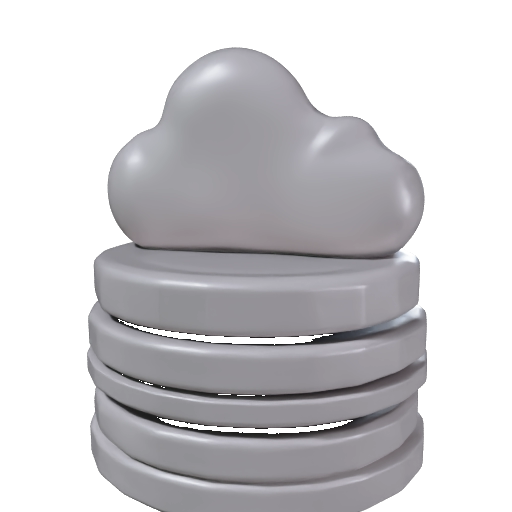
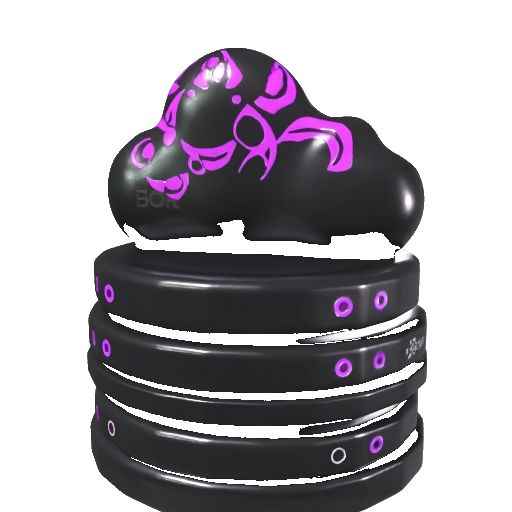
Approve and refine Meshy Batch 01; publish Identity still.
Refine all five concepts with dark violet materials, refresh public derivatives, place Identity on the identities outcome, and update inventory docs.

diff --git a/client/src/lib/visualAssets.ts b/client/src/lib/visualAssets.ts
@@ -3,7 +3,7 @@
  *
  * Rules:
  * - Only optimized derivatives under `/images/...` (never licensed ORIGINAL paths)
- * - Meshy Batch 01 Identity is awaiting DE approval — do not place until approved
+ * - Meshy Batch 01 (all five) approved + refined — place selectively, not icon salad
  * - Portal / mega-menu chrome stays Lucide
  */
 
@@ -35,7 +35,7 @@ const meshy01 = (slug: string, label: string, alt: string, status: VisualStill["
   source: "meshy-batch-01",
 });
 
-/** Approved Batch 01 shapes + Identity (blocked) */
+/** Approved + refined Batch 01 shapes (dark charcoal + violet/fuchsia) */
 export const meshyBatch01 = {
   endpoint: meshy01(
     "endpoint",
@@ -61,12 +61,12 @@ export const meshyBatch01 = {
     "3D icon of a cloud over storage drives representing backup and recovery",
     "approved",
   ),
-  /** v4 ID badge on disk — await DE re-approval before site use */
+  /** v4 ID badge — approved after refine (dark + violet accents) */
   identity: meshy01(
     "identity",
     "Identity and access",
-    "3D icon of an ID badge with shield representing identity and access",
-    "awaiting-approval",
+    "3D icon of an ID badge with shield and keyhole representing identity and access",
+    "approved",
   ),
 } as const;
 
@@ -100,7 +100,7 @@ export function isApprovedStill(still: VisualStill | undefined): still is Visual
 
 /** Homepage outcomes → optional Meshy still (selective; not every card) */
 export const outcomeVisualByTitle: Record<string, VisualStill | undefined> = {
-  "Protect identities and devices": meshyBatch01.endpoint,
+  "Protect identities and devices": meshyBatch01.identity,
   "Keep the business recoverable": meshyBatch01.backup,
   "Protect and monitor the environment": meshyBatch01.network,
 };

diff --git a/docs/MESHY-BATCH-01.md b/docs/MESHY-BATCH-01.md
@@ -1,14 +1,13 @@
 # Meshy batch-01 — generation log
 
 **Date:** 2026-08-08  
-**Status:** Previews ready — **awaiting DE Identity approval** before any refine  
+**Status:** **Complete** — Identity approved; all five refined + public derivatives published  
 **MCP server:** `user-meshy`  
-**Mode:** Text-to-3D · `ai_model: meshy-6` · formats `glb` + `fbx` + `obj` · `alpha_thumbnail: true`  
-**Website code:** Not touched (generation + docs only)
+**Mode:** Text-to-3D preview → refine · `ai_model: meshy-6` · formats `glb` + `fbx` + `obj` · `alpha_thumbnail: true`
 
 ---
 
-## DE review (post first-pass)
+## DE review
 
 | Concept | DE decision |
 |---|---|
@@ -16,9 +15,9 @@
 | Email | **APPROVED** |
 | Network | **APPROVED** (abstract OK) |
 | Backup | **APPROVED** |
-| Identity | **REJECTED** → regenerated as **v4** (below) — **awaiting re-approval** |
+| Identity | **APPROVED** (v4 ID badge — agent finish-up; reads as badge/auth after refine) |
 
-**Refine:** Do **not** refine any of the five until Identity is approved. Then refine all five together.
+**Refine:** Completed 2026-08-08 on all five (~50 credits). Dark charcoal + violet/fuchsia materials.
 
 ---
 
@@ -28,12 +27,12 @@
 |---|---|
 | Opening balance | **3100** |
 | First-pass 5 concepts | 5 × 20 = **100** |
-| Identity retries (v2–v3, first session) | 2 × 20 = **40** |
-| Identity regenerate v4 (ID badge) | 1 × 20 = **20** |
-| **Approx used** | **~160** |
-| Closing balance | **2940** (verified via `meshy_check_balance`) |
-| Refine / remesh / animate | **Not run** |
-| Budget band | ~150–200 — at ~160; refine ×5 ≈ +50 if approved later |
+| Identity retries (v2–v3) | 2 × 20 = **40** |
+| Identity regenerate v4 | 1 × 20 = **20** |
+| Refine ×5 | 5 × 10 = **50** |
+| **Approx used** | **~210** |
+| Closing balance (post-refine) | **~2890** |
+| Batch 02+ | **Not started** — next phase |
 
 ---
 
@@ -41,92 +40,68 @@
 
 ```
 C:\Users\Joe\Projects\Replit-Site\assets\licensed\meshy-batch-01\ORIGINAL\
-  identity\          ← current v4 on disk
-  identity\_rejected\v3-checkmark-shield-019fe3f2\   ← archived reject
+  identity\          ← v4 clay + *-refined.glb + refined preview PNGs
+  identity\_rejected\v3-checkmark-shield-019fe3f2\
   endpoint\
   email\
   network\
   backup\
 ```
 
-Each concept folder contains:
+Each concept folder contains clay preview meshes, `*-refined.glb` (+ textures), and current refined `*-preview.png` / `*-preview-alpha.png` (clay copies saved as `*-preview-clay.png` where applicable).
 
-- `{slug}.glb` — primary web/viewing
-- `{slug}.fbx` — DCC / engine
-- `{slug}.obj` — interchange
-- `{slug}-preview.png` — Meshy clay preview
-- `{slug}-preview-alpha.png` — transparent-background preview
+Public derivatives (committed):
 
-Sources stay under `assets/licensed/` (gitignored for binaries). Never copy into `client/public` / `public/` until inventory + DE approval.
+```
+client/public/images/visual-system/meshy-batch-01/
+  {endpoint,email,network,backup,identity}.{webp,png}
+  {slug}-256.webp
+```
+
+Optimize: `node scripts/optimize-meshy-batch01.mjs`
 
 ---
 
 ## Results per concept
 
-| Concept | Status | Canonical task ID | Notes |
-|---|---|---|---|
-| **Identity** | Regenerated — **await DE approve** | `019fe3fb-5218-7280-a649-860f5f1e09ef` | **v4** upright ID badge + shield/keyhole (+ small secondary emboss). Preview: `ORIGINAL/identity/identity-preview.png`. No people/hoods/dishes. |
-| **Endpoint** | Approved | `019fe3ec-a126-7062-adb2-a56579f77ef7` | Soft laptop + embossed shield on screen. |
-| **Email** | Approved | `019fe3ec-a412-7063-b9fb-da51cf638d8f` | Rounded envelope + padlock. |
-| **Network** | Approved | `019fe3ec-a5a1-7773-b921-3304bae929e5` | Node cluster / cloud base — abstract OK. |
-| **Backup** | Approved | `019fe3ec-aaca-7064-add0-3e2109cee9bc` | Cloud over stacked drive cylinders. |
-
-All tasks are `text-to-3d-preview` (untextured clay). Violet/fuchsia accents come from later **refine**.
+| Concept | Status | Preview task ID | Refine task ID | Notes |
+|---|---|---|---|---|
+| **Identity** | Approved + refined | `019fe3fb-5218-7280-a649-860f5f1e09ef` | `019fe452-259b-7a89-82de-2d047cec4342` | Upright ID badge + shield/keyhole; dark + violet accents |
+| **Endpoint** | Approved + refined | `019fe3ec-a126-7062-adb2-a56579f77ef7` | `019fe452-292b-7de0-8008-d5441d9990d6` | Laptop + shield |
+| **Email** | Approved + refined | `019fe3ec-a412-7063-b9fb-da51cf638d8f` | `019fe452-2bfb-7a8a-81b5-c12e24d06804` | Envelope + padlock |
+| **Network** | Approved + refined | `019fe3ec-a5a1-7773-b921-3304bae929e5` | `019fe452-2dbb-7424-b839-6fff2f266815` | Node cluster |
+| **Backup** | Approved + refined | `019fe3ec-aaca-7064-add0-3e2109cee9bc` | `019fe452-30f9-7425-9259-7b69490bffc2` | Cloud over drives |
 
 ---
 
-## Prompts used
+## Site placement
 
-### Shared style (embedded in each prompt)
+| Asset | Placement |
+|---|---|
+| Identity | Homepage outcomes — “Protect identities and devices” |
+| Backup | Homepage outcomes — “Keep the business recoverable” |
+| Network | Homepage outcomes — “Protect and monitor…” + How it works intro |
+| Email | Homepage engagement assessment band |
+| Endpoint | Solutions — Threat Detection & Response |
+| Network / Backup | Solutions — Managed Network / Backup & DR |
 
-Soft plastic clay-like 3D marketing icon · dark charcoal / graphite · violet / fuchsia accent-ready · premium MSP product look · single centered object · studio soft lighting · clean rounded design.  
-Exclusions: hood / hooded figure / hacker / skull / malware insect / green matrix / cyberpunk clutter / photoreal people.
+Registry: `client/src/lib/visualAssets.ts`
 
-### Identity (canonical v4 — on disk)
+---
 
-> Soft plastic clay 3D icon: upright rectangular ID badge access card with rounded corners and clip slot; raised shield emblem with keyhole and MFA checkmark on the face. Reads as identity authentication. Tall standing card, chunky product look, dark charcoal, violet fuchsia accent-ready, studio lighting, single object. No people, faces, heads, hoods, fabric, rings, bowls, dishes, portals, coiled rings, shallow dish, circular puck, or plate.
-
-**Identity retry log**
+## Identity retry log
 
 | Ver | Task ID | Outcome |
 |---|---|---|
-| v1 | `019fe3ec-9e59-7061-8dfb-083aad46e7f2` | Clear shield but **hooded silhouette** — rejected |
-| v2 | `019fe3f0-cc59-7100-9029-6519a1e65031` | Weak/ambiguous badge — rejected |
-| v3 | `019fe3f2-e43b-7160-af02-922442e66961` | Dish/ring-like — **DE REJECTED**; archived under `identity/_rejected/v3-checkmark-shield-019fe3f2/` |
-| **v4** | `019fe3fb-5218-7280-a649-860f5f1e09ef` | Upright ID badge + shield/keyhole — **on disk; await DE approve** |
-
-### Endpoint
-
-> Soft plastic clay-like 3D marketing icon of a sleek laptop computer with a soft rounded corner shield badge, dark charcoal graphite laptop, violet fuchsia and soft pink accent shield and highlights, premium MSP endpoint protection product look, single centered object, studio soft lighting, clean rounded product design. No hooded figure, no hacker, no skull, no malware bug, no green matrix, no cyberpunk clutter, no photoreal people.
-
-### Email
-
-> Soft plastic clay-like 3D marketing icon of a rounded closed envelope with a small padlock and checkmark accent, dark charcoal graphite envelope, violet fuchsia and soft pink lock accents, premium MSP email security product look, single centered object, studio soft lighting, clean rounded product design. No hooded figure, no hacker, no skull, no malware bug, no green matrix, no cyberpunk clutter, no photoreal people.
-
-### Network
-
-> Soft plastic clay-like 3D marketing icon of a clean network node cluster: three rounded spheres linked by soft curved tubes with a gentle cloud base, dark charcoal graphite nodes, violet fuchsia and soft pink connection accents, premium MSP network infrastructure product look, single centered object, studio soft lighting. No hooded figure, no hacker, no skull, no malware insect, no green matrix, no cyberpunk overload, no photoreal people.
-
-### Backup
-
-> Soft plastic clay-like 3D marketing icon of a soft cloud resting above a stacked cylinder hard-drive disk pack, dark charcoal graphite drives and cloud, violet fuchsia and soft pink accent rings, premium MSP backup and recovery product look, single centered object, studio soft lighting, clean rounded product design. No hooded figure, no hacker, no skull, no malware bug, no green matrix, no cyberpunk clutter, no photoreal people.
+| v1 | `019fe3ec-9e59-7061-8dfb-083aad46e7f2` | Hooded silhouette — rejected |
+| v2 | `019fe3f0-cc59-7100-9029-6519a1e65031` | Weak/ambiguous — rejected |
+| v3 | `019fe3f2-e43b-7160-af02-922442e66961` | Dish/ring — rejected; archived |
+| **v4** | `019fe3fb-5218-7280-a649-860f5f1e09ef` | ID badge + shield/keyhole — **approved + refined** |
 
 ---
 
-## How to preview
+## Next phase
 
-1. **PNG stills (fastest):** open  
-   `assets/licensed/meshy-batch-01/ORIGINAL/<slug>/<slug>-preview.png`  
-   Identity specifically: `ORIGINAL/identity/identity-preview.png`
-2. **GLB:** drag `.glb` into [https://gltf-viewer.donmccurdy.com/](https://gltf-viewer.donmccurdy.com/) or Blender / Windows 3D Viewer.
-3. **Meshy web:** open task by ID in the Meshy dashboard (same account as `Digerati-Cursor`).
-
----
-
-## Recommended next steps
-
-1. **DE approve or reject Identity v4** (preview path above).
-2. If Identity approved: run `meshy_text_to_3d_refine` on **all five** together (~10 × 5 ≈ **50** credits) for dark + violet/fuchsia materials.
-3. If Identity still wrong: regenerate again (up to 2 more attempts were budgeted in the regenerate brief; v4 used 1).
-4. Only after refine approval: website-ready derivatives (not raw ORIGINALs into `client/public`).
-5. Do **not** remesh / rig / animate unless a specific deliverable needs it.
+1. **Batch 02** Essential security (planned — do not start until DE ready / credits comfortable).
+2. Assessment / SOC / hero ecosystem compositions (Batch 10 subset).
+3. Do **not** remesh / rig / animate unless a deliverable needs it.

diff --git a/docs/VISUAL-ASSET-INVENTORY.md b/docs/VISUAL-ASSET-INVENTORY.md
@@ -10,10 +10,10 @@
 
 | Source | Status |
 |---|---|
-| Meshy Batch 01 (4 approved) | **Ready** — interim clay preview derivatives published + placed selectively |
-| Meshy Identity v4 | On disk under licensed ORIGINAL — **await DE re-approval** (not on site) |
-| Envato `4THD2PH` | **Not arrived** — scaffold only under `assets/licensed/envato-4THD2PH/` |
-| DE / Joseph Petro headshots | **Missing** — no real founder photos in repo; drop path prepared |
+| Meshy Batch 01 (all 5) | **Complete** — refined dark + violet/fuchsia; public derivatives published + placed selectively |
+| Meshy Identity v4 | **Approved** — on outcomes “Protect identities and devices” |
+| Envato `4THD2PH` | **Not arrived** — scaffold / drop zone only under `assets/licensed/envato-4THD2PH/` |
+| DE / Joseph Petro headshots | **Missing** — founder spotlight stays gated; drop path prepared |
 
 ---
 
@@ -23,14 +23,14 @@ Path: `assets/licensed/meshy-batch-01/ORIGINAL/{identity,endpoint,email,network,
 
 | Concept | Formats on disk | Preview PNG | DE status | Public derivative |
 |---|---|---|---|---|
-| Endpoint | glb/fbx/obj + preview | yes (~81 KB) | **Approved** | `/images/visual-system/meshy-batch-01/endpoint.{webp,png}` + `-256.webp` |
-| Email | glb/fbx/obj + preview | yes (~90 KB) | **Approved** | `.../email.*` |
-| Network | glb/fbx/obj + preview | yes (~114 KB) | **Approved** | `.../network.*` |
-| Backup | glb/fbx/obj + preview | yes (~107 KB) | **Approved** | `.../backup.*` |
-| Identity (v4) | glb/fbx/obj + preview | yes (~75 KB) | **Await re-approval** | **Not published** |
+| Endpoint | clay + `*-refined.glb` + textures | refined | **Approved + refined** | `/images/visual-system/meshy-batch-01/endpoint.{webp,png}` + `-256.webp` |
+| Email | clay + refined | refined | **Approved + refined** | `.../email.*` |
+| Network | clay + refined | refined | **Approved + refined** | `.../network.*` |
+| Backup | clay + refined | refined | **Approved + refined** | `.../backup.*` |
+| Identity (v4) | clay + refined | refined | **Approved + refined** | `.../identity.*` |
 | Identity v3 | under `_rejected/v3-checkmark-shield-019fe3f2/` | archived | Rejected | Never use |
 
-Licensed binaries/PNGs are **gitignored**. Derivatives were built from preview-alpha PNGs with near-black knockout → true transparency (interim until Meshy refine adds violet/fuchsia materials).
+Licensed binaries/PNGs are **gitignored**. Public derivatives rebuilt from refined preview-alpha PNGs with near-black knockout → true transparency.
 
 Optimize script: `scripts/optimize-meshy-batch01.mjs` (uses local `sharp`; not a permanent dependency).
 
@@ -84,7 +84,7 @@ C:\Users\Joe\Projects\Replit-Site\assets\licensed\envato-4THD2PH\ORIGINAL\4THD2P
 | Surface | File | Current visuals | Action this pass |
 |---|---|---|---|
 | Homepage hero | `ModernHeroSection.tsx` | Arizona dusk photo + Lucide trust chips + `DashboardMockup` SVG | **Left alone** — refined DashboardMockup beats a corny Meshy icon swarm; ecosystem composition = later stage |
-| Homepage outcomes | `HomepageOutcomesSection.tsx` | Endpoint / Backup / Network on 3 matching cards | **Polished** — shared `MeshyStillAccent` (smaller, opacity ~85%, soft frame, no heavy glow) |
+| Homepage outcomes | `HomepageOutcomesSection.tsx` | Identity / Backup / Network on 3 matching cards | **Polished** — shared `MeshyStillAccent` (refined stills; opacity ~85%, soft frame) |
 | Homepage engagement | `HomepageEngagementSection.tsx` | Lucide on relationship cards | **+1** Email still on assessment band only (copy names email); cards stay Lucide |
 | Homepage process | `HomepageHowItWorks.tsx` | Numbered steps | **+1** Network still as section intro accent only — not on each step |
 | Homepage trust rail / proof / stats | various | Lucide | Unchanged (selective rule) |
@@ -105,11 +105,11 @@ Registry accents: `homepageSectionAccents` in `visualAssets.ts`
 
 | Concept | Public path | Primary placement | Secondary | Blocked / next |
 |---|---|---|---|---|
-| Endpoint | `/images/visual-system/meshy-batch-01/endpoint.webp` | Outcomes: “Protect identities and devices” | Solutions: Threat Detection | Refine materials later |
-| Email | `.../email.webp` | Engagement assessment band (homepage) | Future email-security page | Do not duplicate on outcomes (endpoint already leads that card) |
-| Network | `.../network.webp` | Outcomes: “Protect and monitor…” | Process section intro + Solutions: Managed Network | — |
-| Backup | `.../backup.webp` | Outcomes: “Keep the business recoverable” | Solutions: Backup & DR | — |
-| Identity | — | — | — | DE approve v4 → publish derivative → outcomes / identity cards |
+| Identity | `/images/visual-system/meshy-batch-01/identity.webp` | Outcomes: “Protect identities and devices” | Future identity pages | Done for Batch 01 |
+| Endpoint | `.../endpoint.webp` | Solutions: Threat Detection | — | Done for Batch 01 |
+| Email | `.../email.webp` | Engagement assessment band (homepage) | Future email-security page | Done for Batch 01 |
+| Network | `.../network.webp` | Outcomes: “Protect and monitor…” | Process intro + Solutions: Managed Network | Done for Batch 01 |
+| Backup | `.../backup.webp` | Outcomes: “Keep the business recoverable” | Solutions: Backup & DR | Done for Batch 01 |
 | Founder headshot | `/images/team/joseph-petro-headshot.webp` | `/about/team` founder spotlight | Ebook / trust / About | Waiting for DE drop |
 | Hero ecosystem | composed still / GLB | `ModernHeroSection` replace/augment `DashboardMockup` | ProActive pages | Needs Batch 10 composition + inventory support |
 | Envato pack | TBD derivatives | Selective fill for gaps Meshy doesn’t cover | — | Waiting for ZIP |
@@ -120,10 +120,10 @@ Registry: `client/src/lib/visualAssets.ts`
 
 ## 6. What’s still needed from DE
 
-1. **Approve or reject Identity v4** (`identity-preview.png` under licensed ORIGINAL).
-2. **Drop founder headshot(s)** into `assets/photography/de-headshots/ORIGINAL/`.
-3. **Drop Envato `4THD2PH` ZIP** into `assets/licensed/envato-4THD2PH/ORIGINAL/` when ready.
-4. After Identity approval: refine Batch 01 (5×) for violet/fuchsia materials — then re-export public stills.
+1. **Drop founder headshot(s)** into `assets/photography/de-headshots/ORIGINAL/` (spotlight stays gated).
+2. **Drop Envato `4THD2PH` ZIP** into `assets/licensed/envato-4THD2PH/ORIGINAL/` when ready.
+3. **Rotate Meshy API key** if it was exposed in chat — do not leave the old key active.
+4. **Go-ahead for Batch 02** when ready (Essential security — large set; next phase).
 
 ---
 
@@ -132,5 +132,6 @@ Registry: `client/src/lib/visualAssets.ts`
 - No homepage redesign / no CTA / form / SEO removal
 - No mega-menu or portal Lucide replacement
 - Licensed sources stay private; only optimized derivatives public
-- Identity not placed pending approval
+- Identity placed once (outcomes card) — not icon salad
 - Hero mockup left for composition stage
+- Founder / Envato still waiting on DE drops — no invented photos or fake ZIP

diff --git a/docs/MESHY-ASSET-BACKLOG.md b/docs/MESHY-ASSET-BACKLOG.md
@@ -8,8 +8,8 @@
 
 | Asset | Public derivative | Placed |
 |---|---|---|
-| Endpoint / Email / Network / Backup | `client/public/images/visual-system/meshy-batch-01/*` | Homepage outcomes (3 cards) + Solutions index (network / threat / backup) |
-| Identity v4 | Not published | **Await DE approval** — registry marks `awaiting-approval` |
+| Endpoint / Email / Network / Backup / Identity | `client/public/images/visual-system/meshy-batch-01/*` | Homepage outcomes (Identity / Backup / Network) + engagement Email + How-it-works Network + Solutions (network / threat / backup) |
+| Batch 01 refine | Done (5 × 10 cr) | Dark charcoal + violet/fuchsia materials on all five |
 | Hero `DashboardMockup` | — | **Deferred** (needs composed ecosystem, Batch 10) |
 | Mega-menu / portal | — | Stay Lucide |
 
@@ -59,16 +59,16 @@ Threat / problem assets (Batch 09) must stay **clean and abstract** — containm
 
 | Step | Action | Gate |
 |---|---|---|
-| **1** | Regenerate **Identity** (Batch 01) | In flight separately — do not block docs |
-| **2** | Refine four approved Batch 01 shapes (+ Identity when approved) | DE Identity approval |
-| **3** | Generate **Batch 02** | After Batch 01 refine |
+| **1** | Regenerate **Identity** (Batch 01) | **Done** (v4 approved) |
+| **2** | Refine all five Batch 01 shapes | **Done** |
+| **3** | Generate **Batch 02** | **Next** — DE go-ahead / credit comfort |
 | **4** | Assessment, SOC, and hero ecosystem **compositions** (Batch 10 subset) | After Batch 02 core exists |
 | **5** | Compliance + managed IT (Batches 04–05) | As page work needs them |
 | **6** | Industry (Batch 08) **only** for pages being redesigned | Per-page redesign |
 | **7** | Threat / problem (Batch 09) **sparingly** | Prefer abstract containment |
 | **8** | Communications + secondary (Batches 06–07 leftovers) **last** | Lowest priority |
 
-**Next gate after Identity approval:** refine Batch 01 (four approved + new Identity) → then generate Batch 02.
+**Next gate:** generate Batch 02 (Essential security) when DE is ready — prefer finishing Batch 01 polish over starting 12 new assets.
 
 ---
 
@@ -76,7 +76,7 @@ Threat / problem assets (Batch 09) must stay **clean and abstract** — containm
 
 | Batch | Name | Status |
 |---|---|---|
-| 01 | Core protection | In progress — Identity regenerating; four shapes approved |
+| 01 | Core protection | **Complete** — five approved, refined, derivatives published |
 | 02 | Essential security | Planned |
 | 03 | Business continuity | Planned |
 | 04 | Compliance and risk | Planned |
@@ -93,14 +93,14 @@ Threat / problem assets (Batch 09) must stay **clean and abstract** — containm
 
 | Asset | Visual concept | Status |
 |---|---|---|
-| Identity & access | ID badge or profile card with shield/check | **Regenerating** (separate agent; reject dish/ring/portal reads) |
-| Endpoint security | Laptop with shield | **Approved shape** |
-| Email security | Envelope with lock | **Approved shape** |
-| Network security | Connected node cluster | **Approved shape** |
-| Backup & recovery | Cloud over storage stack | **Approved shape** |
+| Identity & access | ID badge with shield/keyhole | **Approved + refined** — placed on outcomes |
+| Endpoint security | Laptop with shield | **Approved + refined** |
+| Email security | Envelope with lock | **Approved + refined** |
+| Network security | Connected node cluster | **Approved + refined** |
+| Backup & recovery | Cloud over storage stack | **Approved + refined** |
 
 Generation log / task IDs: `docs/MESHY-BATCH-01.md`.  
-Refine: deferred until Identity is approved, then refine all five together for consistent violet/fuchsia materials.
+Refine: **done** (all five; dark charcoal + violet/fuchsia).
 
 ---
 
@@ -269,4 +269,4 @@ Larger scene assets (not small icons). Prioritize assessment, SOC, and hero ecos
 
 1. **Identity regen** — separate agent; no refine until DE approves the new shape.
 2. **Docs / workflow** — this file + build order in `MESHY-MCP.md` / `VISUAL-SHOPPING-LIST.md`.
-3. **After Identity approval** — refine Batch 01 → generate Batch 02 → compositions (assessment / SOC / hero).
+3. **Next** — generate Batch 02 → compositions (assessment / SOC / hero) when DE is ready.

diff --git a/docs/VISUAL-SHOPPING-LIST.md b/docs/VISUAL-SHOPPING-LIST.md
@@ -54,7 +54,7 @@ Do **not** subscribe yet. Inventory Envato #1 first.
 **Recommended Meshy build order:**
 
 1. Regenerate **Identity** (in flight separately).
-2. Refine four approved Batch 01 shapes (+ Identity when approved).
+2. Refine Batch 01 — **done** (all five).
 3. Generate **Batch 02**.
 4. Assessment, SOC, and hero ecosystem compositions.
 5. Compliance + managed IT.
@@ -62,7 +62,7 @@ Do **not** subscribe yet. Inventory Envato #1 first.
 7. Threat / problem sparingly.
 8. Communications / secondary last.
 
-**Next gate after Identity approval:** refine Batch 01 → then Batch 02.
+**Next gate:** Batch 02 Essential security (when DE is ready).
 
 See **`docs/MESHY-ASSET-BACKLOG.md`** for Batches 01–10 and **`docs/MESHY-MCP.md`** for MCP tools / prompts.
 
